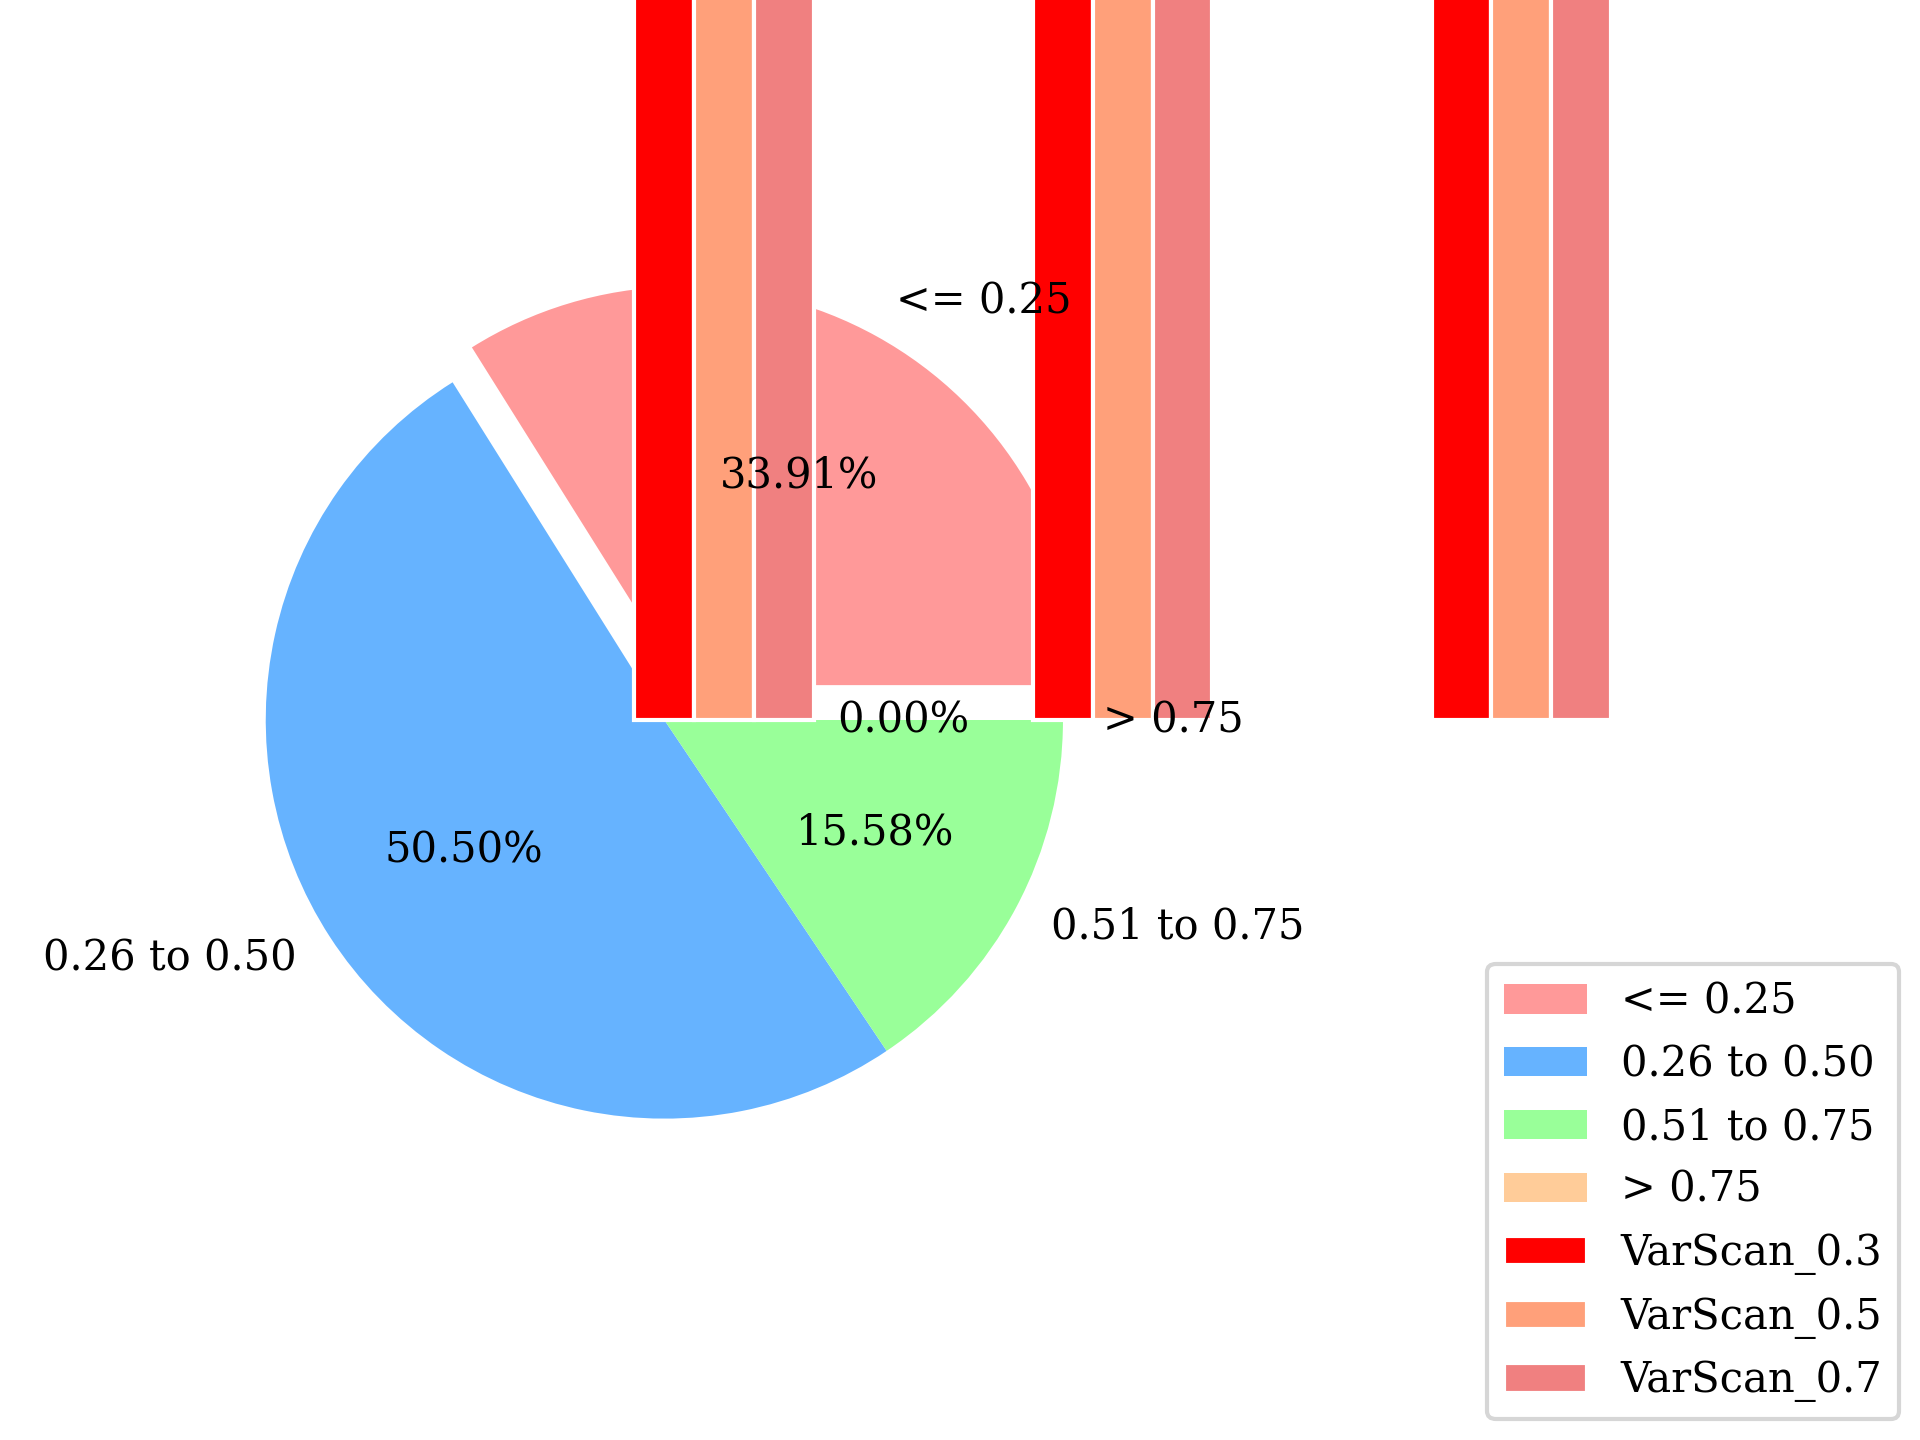
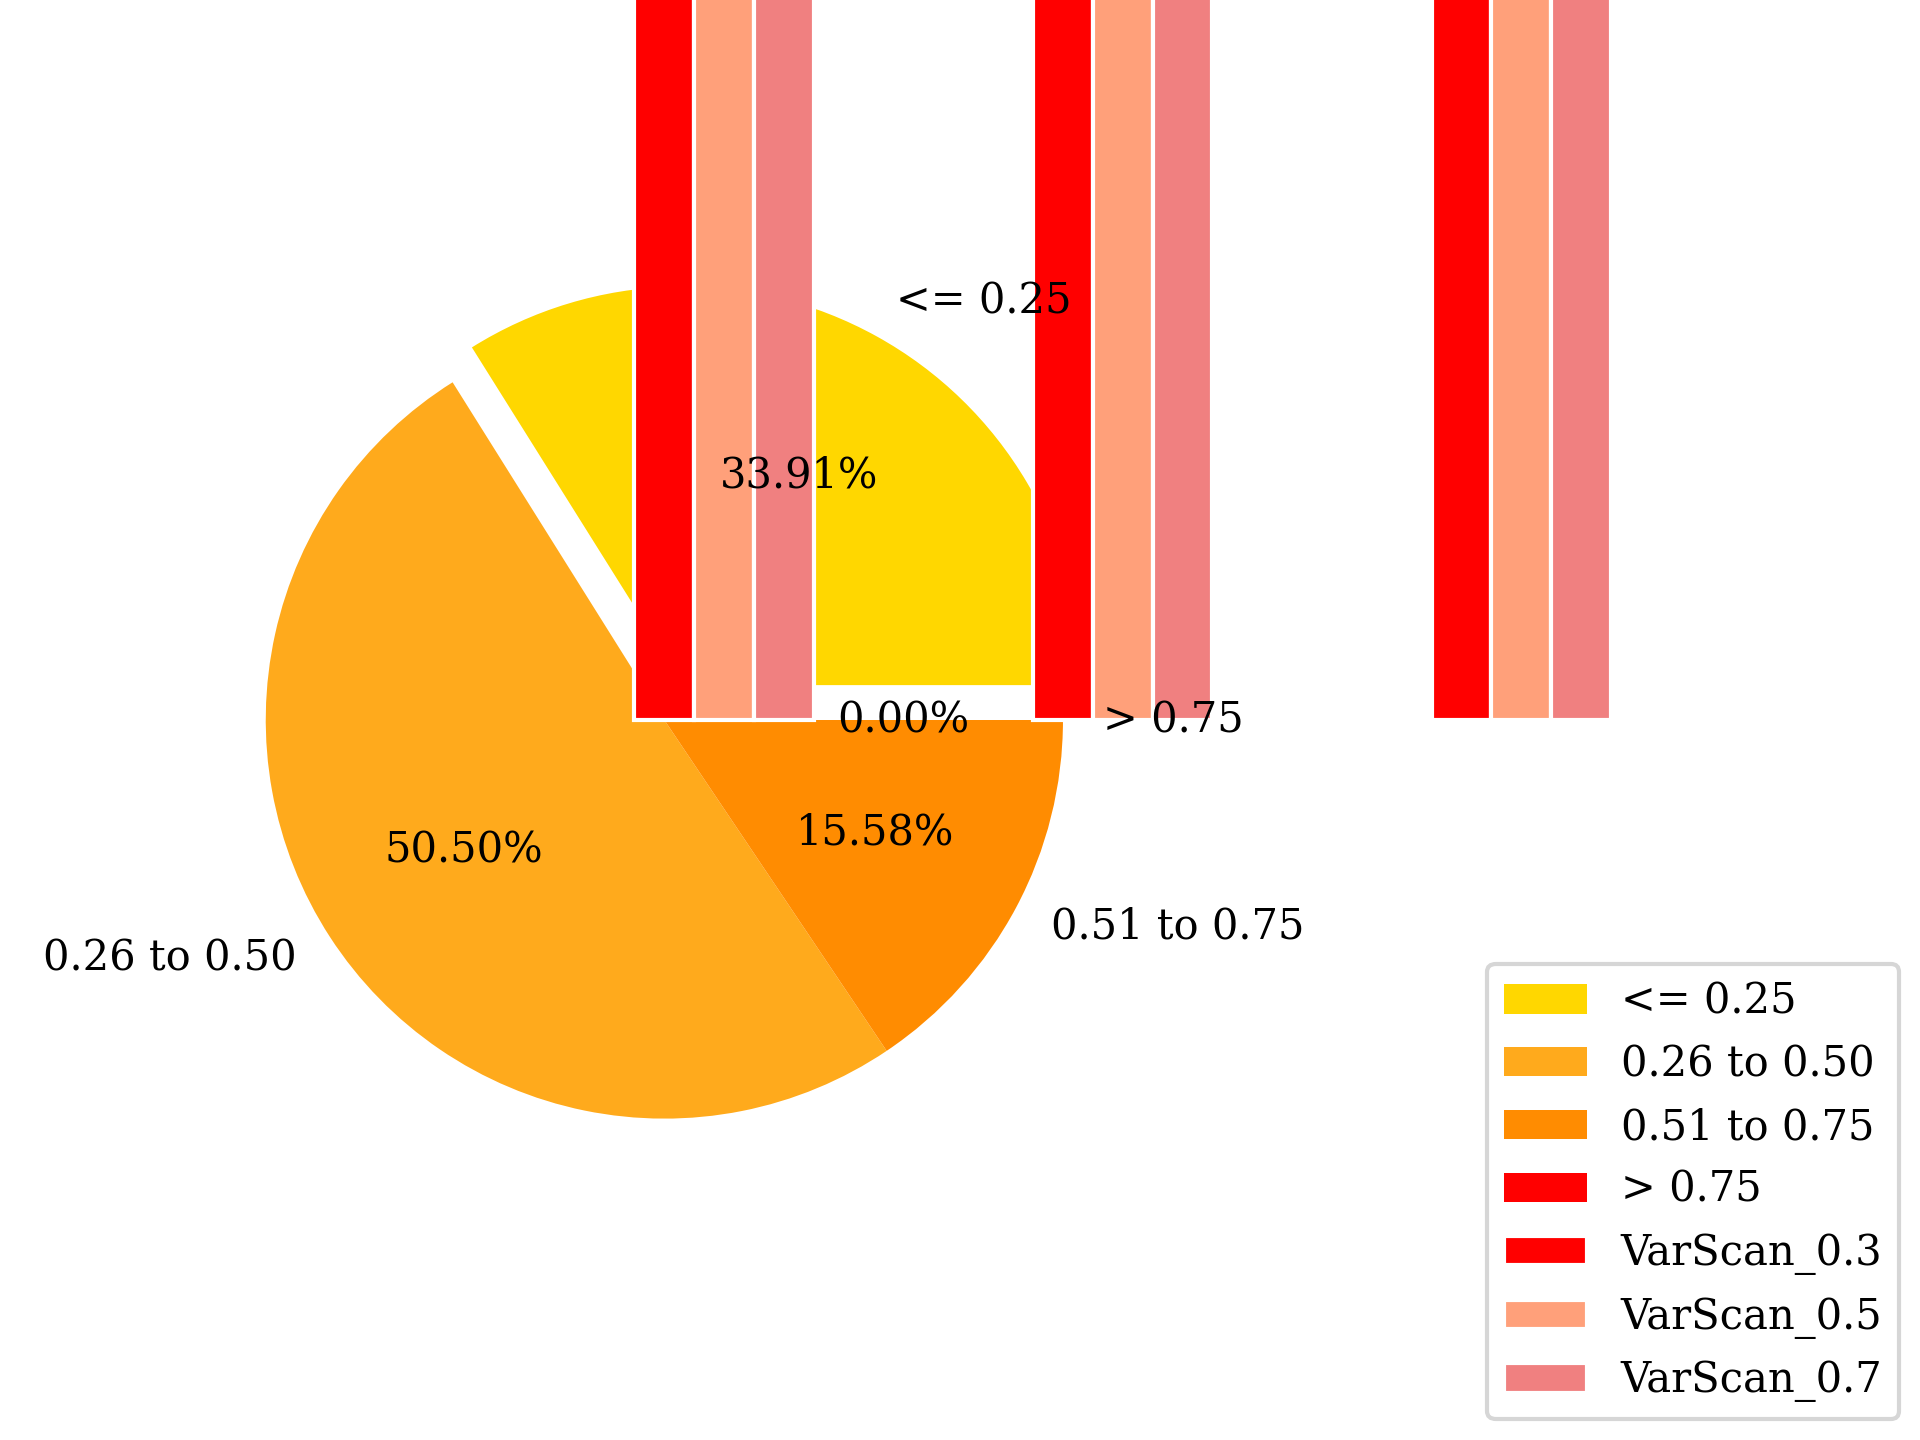
Adding modified code and plots.

Changed region(s): [[0.125, 0.1875, 0.5625, 0.7812], [0.7812, 0.6562, 0.8438, 0.8438]]

diff --git a/Allele_Frequency/VarScan/Background_Files/Code.py b/Allele_Frequency/VarScan/Background_Files/Code.py
@@ -119,40 +119,27 @@ ax = fig.add_axes([0,0,1,1])
 ax.axis('equal')
 langs = ['<= 0.25', '0.26 to 0.50', '0.51 to 0.75', '> 0.75']
 explode = (0.1, 0, 0, 0)
-colors = ['#ff9999','#66b3ff','#99ff99','#ffcc99']
+colors = ['#FFD700','#FFAA1C','#FF8C01','#FF0000']
 ax.pie(a1, explode=explode, labels = langs, colors=colors, autopct='%1.2f%%')
 ax.set_title('Normal Allele Frequency Counts Percentage')
-plt.savefig('VarScan_Normal_Allele_Frequency.png', dpi = 300)
+plt.savefig('VarScan_0.3_Allele_Frequency.png', dpi = 300)
 
 fig1 = plt.figure()
 ax1 = fig1.add_axes([0,0,1,1])
 ax1.axis('equal')
 langs = ['<= 0.25', '0.26 to 0.50', '0.51 to 0.75', '> 0.75']
 explode = (0.1, 0, 0, 0)
-colors = ['#ff9999','#66b3ff','#99ff99','#ffcc99']
+colors = ['#FFD700','#FFAA1C','#FF8C01','#FF0000']
 ax1.pie(a2, explode=explode, labels = langs, colors=colors, autopct='%1.2f%%')
 ax1.set_title('Normal Allele Frequency Counts Percentage')
-plt.savefig('VarScan_Tumor_Allele_Frequency.png', dpi = 300)
+plt.savefig('VarScan_0.5_Allele_Frequency.png', dpi = 300)
 
-# set width of bar
-width = 0.15
-
-# Set position of bar on X axis
-r1 = np.arange(len(a1))
-r2 = [x + width for x in r1]
-r3 = [x + width for x in r2]
-
-# Make the plot
-plt.bar(r1, a1, color='#ff0000', width=width, edgecolor='white', label='VarScan_0.3')
-plt.bar(r2, a2, color='#ffa07a', width=width, edgecolor='white', label='VarScan_0.5')
-plt.bar(r3, a3, color='#f08080', width=width, edgecolor='white', label='VarScan_0.7')
-
-# Add xticks on the middle of the group bars
-plt.xlabel('VarScan_Allele_Frequencies')
-plt.xticks([r + width for r in range(len(a1))], ['<= 0.25', '<= 0.50', '<= 0.75', '<= 1.00'])
-
-# Create legend & Show graphic
-plt.legend()
-plt.show()
-plt.savefig('VarScan_Allele_Frequency_Plot.pdf')
-plt.savefig('VarScan_Allele_Frequency_Plot.png', dpi = 300)
+fig2 = plt.figure()
+ax2 = fig2.add_axes([0,0,1,1])
+ax2.axis('equal')
+langs = ['<= 0.25', '0.26 to 0.50', '0.51 to 0.75', '> 0.75']
+explode = (0.1, 0, 0, 0)
+colors = ['#FFD700','#FFAA1C','#FF8C01','#FF0000']
+ax2.pie(a3, explode=explode, labels = langs, colors=colors, autopct='%1.2f%%')
+ax2.set_title('Normal Allele Frequency Counts Percentage')
+plt.savefig('VarScan_0.7_Allele_Frequency.png', dpi = 300)

diff --git a/Allele_Frequency/Strelka/Background_Files/Code.py b/Allele_Frequency/Strelka/Background_Files/Code.py
@@ -527,7 +527,7 @@ ax = fig.add_axes([0,0,1,1])
 ax.axis('equal')
 langs = ['<= 0.25', '0.26 to 0.50', '0.51 to 0.75', '> 0.75']
 explode = (0.1, 0, 0, 0)
-colors = ['#ff9999','#66b3ff','#99ff99','#ffcc99']
+colors = ['#FFD700','#FFAA1C','#FF8C01','#FF0000']
 ax.pie(a1, explode=explode, labels = langs, colors=colors, autopct='%1.2f%%')
 ax.set_title('Normal Allele Frequency Counts Percentage')
 plt.savefig('Strelka_Normal_Allele_Frequency.png', dpi = 300)
@@ -537,7 +537,7 @@ ax1 = fig1.add_axes([0,0,1,1])
 ax1.axis('equal')
 langs = ['<= 0.25', '0.26 to 0.50', '0.51 to 0.75', '> 0.75']
 explode = (0.1, 0, 0, 0)
-colors = ['#ff9999','#66b3ff','#99ff99','#ffcc99']
+colors = ['#FFD700','#FFAA1C','#FF8C01','#FF0000']
 ax1.pie(a2, explode=explode, labels = langs, colors=colors, autopct='%1.2f%%')
 ax1.set_title('Normal Allele Frequency Counts Percentage')
 plt.savefig('Strelka_Tumor_Allele_Frequency.png', dpi = 300)

diff --git a/Allele_Frequency/Comparisons/Tumor_Purity_0.3/Background_Files/Code.py b/Allele_Frequency/Comparisons/Tumor_Purity_0.3/Background_Files/Code.py
@@ -96,7 +96,10 @@ print(a1)
 print(a2)
 print(a3)
 print(a4)
-
+print(a1)
+print(a2)
+print(a3)
+print(a4)
 
 # Set position of bar on X axis
 r1 = np.arange(len(a1))
